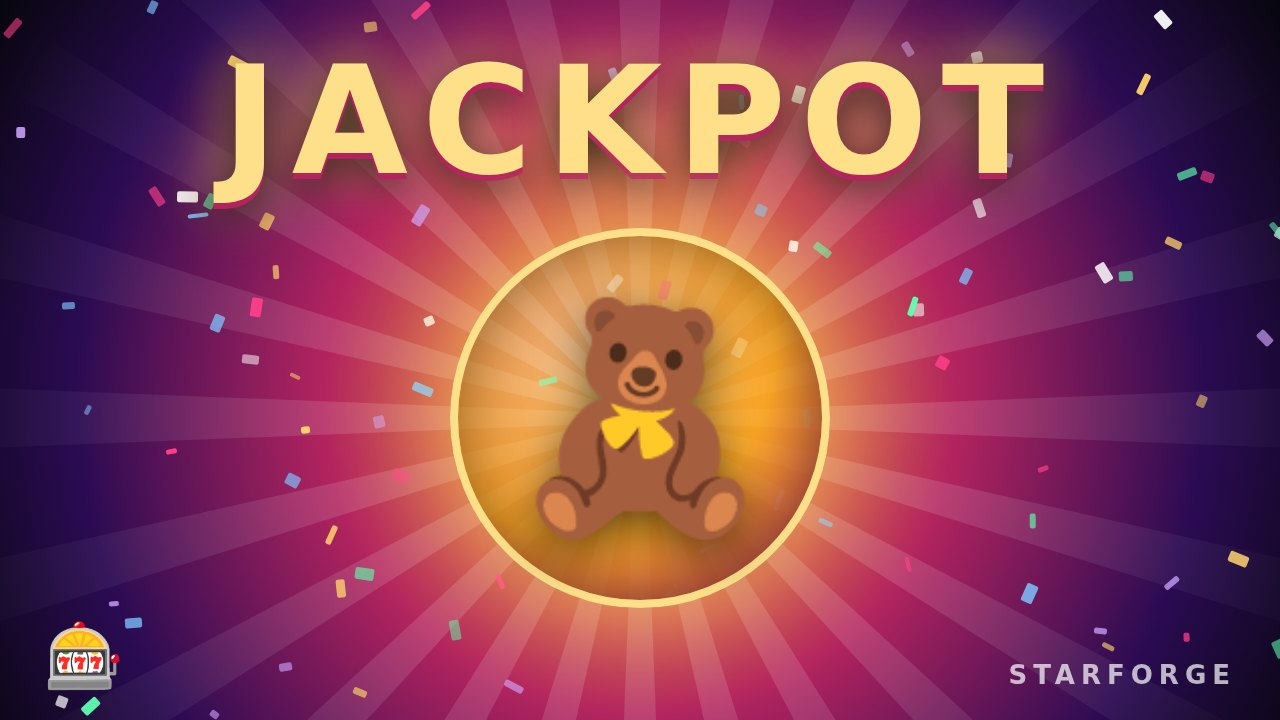
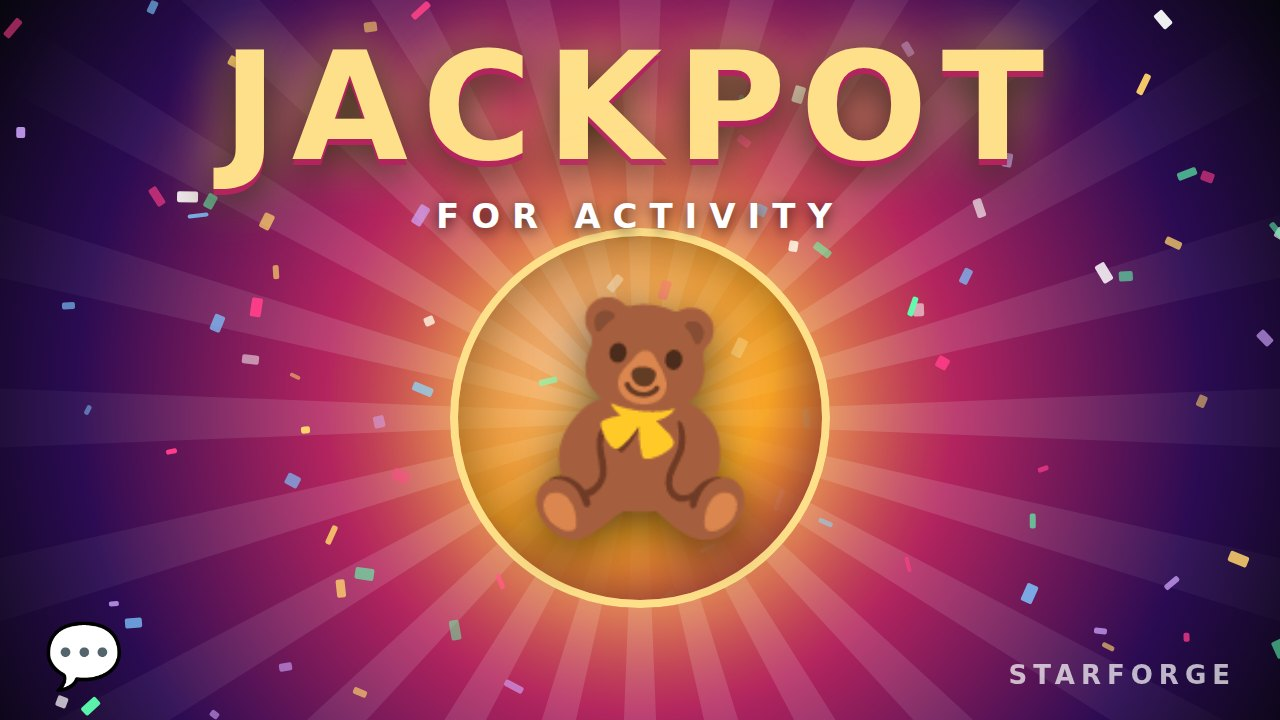
Jackpot is an admin reward for chat activity, not a game
- No slot dice or 'try your luck' button: the chat first sees
  '👀 The admin is looking through the chat…', then a JACKPOT FOR ACTIVITY
  card saying the admin noticed this person's activity, pinned with a
  notification; the teaser is removed afterwards.
- The card ends with how to earn the next one (chat, help newcomers) and
  an 'open the bot' button so newcomers can receive prizes.
- Gift caption and the winner's DM speak about activity, not luck.

Claude-Session: https://claude.ai/code/session_01BTXemNnmoYXsJt3GJZukzD

diff --git a/src/chat/chat.js b/src/chat/chat.js
@@ -463,36 +463,38 @@ function createChat(bot, opts) {
     ], pct >= 100 ? 'Майже відчинено… слідкуй за чатом 👀' : 'Відкриється першим для найактивніших гравців чату');
   }
 
-  // ═══════════════════════ 🎰 ДЖЕКПОТ ВІД АДМІНА ═══════════════════════
-  // Адмін у приваті вставляє посилання на повідомлення — бот відповідає на
-  // нього в чаті «ДЖЕКПОТ!», ставить 🎉 і закликає всіх спілкуватись.
+  // ═══════════════════════ 👑 ДЖЕКПОТ ЗА АКТИВНІСТЬ ═══════════════════════
+  // Не гра й не випадковість: адмін сам обирає, кого нагородити за активність
+  // у чаті, — вставляє в приваті посилання на повідомлення людини, і бот
+  // оголошує це в чаті у відповідь на те повідомлення.
   // opts.kind — bear | gift | stars | tickets | xp (картинка jp-<kind>.jpg);
   // opts.auto — подарунок бот уже надіслав сам (Мішка/Подарунок через sendGift).
-  // Щоб усі помітили: спершу 🎰 «барабан» у відповідь переможцю, потім яскрава
-  // картка JACKPOT, закріплення зі сповіщенням і реакції на повідомленні.
+  // Щоб усі помітили: спершу «👀 адмін помітив…», потім яскрава картка,
+  // закріплення зі сповіщенням і реакція на повідомленні переможця.
   const jpUnpin = new Map();
   async function jackpot(msgId, winner, prizeLabel, opts) {
     if (!chatId) return false;
     const o = opts || {};
     const reply = { reply_to_message_id: msgId, allow_sending_without_reply: true };
-    try {
-      await bot.telegram.sendDice(chatId, { emoji: '🎰', ...reply });
-      await new Promise(r => setTimeout(r, o.noDrumroll ? 0 : 2600));
-    } catch (e) { /* без барабана — не страшно */ }
+    let teaser = null;
+    if (!o.noTeaser) {
+      teaser = await send(E('eye', '👀') + ' <b>Адмін переглядає чат…</b> Хтось тут дуже активний ' + E('almost', '🔥'), reply);
+      await new Promise(r => setTimeout(r, 2200));
+    }
     const gift = o.kind === 'bear' || o.kind === 'gift';
-    const caption = card('crown', 'ДЖЕКПОТ! 🎰', [
-      E('crown', '👑') + ' <b>' + winner.name + '</b> зірвав джекпот — <b>' + prizeLabel + '</b>!',
+    const caption = card('crown', 'ДЖЕКПОТ ЗА АКТИВНІСТЬ', [
+      E('crown', '👑') + ' <b>' + winner.name + '</b>, адмін помітив твою активність у чаті — тримай <b>' + prizeLabel + '</b>!',
       o.auto && gift
-        ? E('lightning', '⚡') + ' <b>Бот уже видав приз сам — без черги й очікування!</b>\n' + E('giftBox', '🎁') + ' Подарунок уже в профілі переможця → «Подарунки»'
-        : E('check', '✅') + ' <b>Приз уже зараховано</b> — забирай у боті',
+        ? E('lightning', '⚡') + ' <b>Бот уже видав подарунок сам — без черги!</b>\n' + E('giftBox', '🎁') + ' Він уже в профілі переможця → «Подарунки»'
+        : E('check', '✅') + ' <b>Приз уже зараховано</b> — він у боті',
       '',
-      E('almost', '🔥') + ' <b>Хочеш так само? Будь активним у чаті!</b>',
-      'Бот стежить за активністю й роздає джекпоти найактивнішим — наступним можеш бути ти ' + E('eye', '👀'),
-    ]);
-    const link = botLink('games');
-    const tryBtn = { text: '🎰 СПРОБУВАТИ УДАЧУ', url: link, style: 'danger' };
-    if (EM.lightning && EM.lightning.id) tryBtn.icon_custom_emoji_id = EM.lightning.id;
-    const kb = link ? { reply_markup: { inline_keyboard: [[tryBtn]] } } : {};
+      E('almost', '🔥') + ' <b>Хочеш так само? Будь живим у чаті!</b>',
+      'Спілкуйся, допомагай новеньким, піднімай настрій — адмін сам обирає, кому дати наступний джекпот ' + E('eye', '👀'),
+    ], 'Щоб отримувати призи, запусти бота');
+    const link = botLink();
+    const botBtn = { text: '🤖 ВІДКРИТИ БОТА', url: link, style: 'primary' };
+    if (EM.rocket && EM.rocket.id) botBtn.icon_custom_emoji_id = EM.rocket.id;
+    const kb = link ? { reply_markup: { inline_keyboard: [[botBtn]] } } : {};
     let m = null;
     const fs = require('fs'), path = require('path');
     const kindFile = path.join(__dirname, '..', '..', 'web', 'img', 'jackpot', 'jp-' + (o.kind || 'stars') + '.jpg');
@@ -511,6 +513,7 @@ function createChat(bot, opts) {
       m = await send(caption, { ...reply, ...kb });
     }
     react(msgId, '🎉');
+    if (teaser && teaser.message_id && m) bot.telegram.deleteMessage(chatId, teaser.message_id).catch(() => {});
     // Закріпити зі сповіщенням — бачать усі; через 3 год прибираємо.
     if (m && m.message_id && !o.noPin) {
       bot.telegram.pinChatMessage(chatId, m.message_id, { disable_notification: false }).then(() => {

diff --git a/src/bot/admin/community.js b/src/bot/admin/community.js
@@ -22,7 +22,7 @@ const { withEmoji } = require('../../emoji');
 const pendingBroadcast = new Map();   // адмін -> { from, id, at }
 const jpPending = new Map();          // msgId -> uid, коли автора вказано вручну
 const jpDone = new Set();             // msgId, за які приз уже видано (подвійне натискання — не вдруге)
-const JP_GIFT_TEXT = '🎰 ДЖЕКПОТ у чаті StarForge! Будь активним — і вигравай ще 🔥';
+const JP_GIFT_TEXT = '👑 Джекпот за активність у чаті StarForge! Дякуємо, що ти з нами 🔥';
 
 const JP_PRIZES = {
   bear: { label: '🧸 Мішку', kind: 'tier', id: 'bear' },
@@ -241,7 +241,7 @@ function register(bot, hooks) {
     if (users.isAdmin(who.uid)) return ctx.reply('Це твоє повідомлення 🙂');
     const inBot = !!(users.get(who.uid) || {}).lang;
     jpDone.delete(msgId);
-    return ctx.reply(`🎰 Джекпот для ${who.plain}` + (inBot ? '' : '\n⚠ Ця людина ще не запускала бота — приз чекатиме її') +
+    return ctx.reply(`👑 Джекпот за активність для ${who.plain}` + (inBot ? '' : '\n⚠ Ця людина ще не запускала бота — приз чекатиме її') +
       '\n\nЯкий приз?\n🧸 Мішку (15⭐) і 🎁 Подарунок (25⭐) бот надішле <b>одразу сам</b> — справжнім подарунком Telegram з балансу зірок бота.', { parse_mode: 'HTML', ...ui.kb([
       [ui.cb('🧸 Мішка — одразу', `jp_${msgId}_bear`, 'danger'), ui.cb('🎁 Подарунок — одразу', `jp_${msgId}_gift`, 'danger')],
       [ui.cb('20 🎫', `jp_${msgId}_t20`, 'primary'), ui.cb('5 ⭐', `jp_${msgId}_s5`, 'primary')],
@@ -286,10 +286,10 @@ function register(bot, hooks) {
     await ctx.editMessageText(`⏳ Джекпот ${name}: ${prize.label} — оголошую в чаті…`).catch(() => {});
     const kind = prize.kind === 'tier' ? prize.id : prize.kind;
     const ok = chat() ? await chat().jackpot(msgId, { name }, prize.label, { kind, auto }) : false;
-    notify.dm(uid, withEmoji(`{:crown} <b>ДЖЕКПОТ!</b>\n━━━━━━━━━━━━━━\nТи зірвав джекпот у чаті — <b>${prize.label}</b>!\n\n` +
+    notify.dm(uid, withEmoji(`{:crown} <b>ДЖЕКПОТ ЗА АКТИВНІСТЬ!</b>\n━━━━━━━━━━━━━━\nАдмін помітив твою активність у чаті й обрав саме тебе — <b>${prize.label}</b>!\n\n` +
       (auto ? '{:lightning} <b>Бот уже надіслав подарунок</b> — глянь у свій профіль Telegram → «Подарунки» {:giftBox}'
         : prize.kind === 'tier' ? '{:pendingIcon} Заявку створено — видамо найближчим часом.' : '{:check} Уже зараховано на баланс.') +
-      '\n\n{:almost} Спілкуйся далі — бот стежить за найактивнішими!'));
+      '\n\n{:almost} Дякуємо, що ти з нами — спілкуйся далі!'));
     jpPending.delete(msgId);
     await ctx.editMessageText(`✅ Джекпот ${name}: ${prize.label} (${note})` + (ok ? '\nОголошено в чаті 🎉' : '\n⚠ У чат написати не вдалось — /chat_status')).catch(() => {});
   });

diff --git a/scripts/render-level-images.js b/scripts/render-level-images.js
@@ -3,7 +3,7 @@
 //   lvl-1.jpg … lvl-15.jpg — картка рівня (іконка, шкала, нагорода, привілеї)
 //   ladder.jpg             — усі 15 рівнів однією драбиною
 //   xp.jpg                 — за що дають XP
-// і web/img/jackpot/jp-<приз>.jpg — картинка «JACKPOT» для чату (мішка, подарунок, зірки, білети, XP).
+// і web/img/jackpot/jp-<приз>.jpg — «JACKPOT FOR ACTIVITY» для чату (мішка, подарунок, зірки, білети, XP).
 // Картинки без слів конкретною мовою (цифри й емодзі) — підходять для uk/en/ru.
 // Нагороди й привілеї беруться з src/economy.js: змінив їх — перезапусти:
 //   node scripts/render-level-images.js
@@ -161,7 +161,7 @@ function jackpotHtml(kind) {
     .ray { position: absolute; left: -40px; top: -900px; width: 80px; height: 900px; transform-origin: 40px 900px;
       background: linear-gradient(to top, #ffffff38, transparent 80%); clip-path: polygon(45% 100%, 55% 100%, 100% 0, 0 0); }
     .cf { position: absolute; border-radius: 2px; }
-    h1 { position: absolute; top: 34px; left: 0; right: 0; text-align: center; font-size: 150px; font-weight: 900; letter-spacing: 14px;
+    h1 { position: absolute; top: 20px; left: 0; right: 0; text-align: center; font-size: 150px; font-weight: 900; letter-spacing: 14px;
       color: #ffe08a; text-shadow: 0 6px 0 #b3245f, 0 12px 40px #000c, 0 0 60px #ffd36b; }
     .ring { position: absolute; left: 50%; top: 58%; width: 380px; height: 380px; margin: -190px 0 0 -190px; border-radius: 50%;
       background: radial-gradient(circle at 35% 30%, #ffffff55, #ffb020cc 55%, #b3245f); border: 8px solid #ffe08a;
@@ -169,11 +169,13 @@ function jackpotHtml(kind) {
     .ring .emo { font-size: 220px; line-height: 1; filter: drop-shadow(0 14px 24px #0009); }
     .brand { position: absolute; right: 44px; bottom: 30px; font-size: 26px; font-weight: 800; letter-spacing: 6px; opacity: .7; }
     .slot { position: absolute; left: 44px; bottom: 26px; font-size: 64px; }
+    .sub { position: absolute; top: 196px; left: 0; right: 0; text-align: center; font-size: 34px; font-weight: 900; letter-spacing: 12px; color: #fff; text-shadow: 0 3px 14px #000b; }
   </style></head><body>
     <div class="rays">${rays}</div>${conf}
     <h1>JACKPOT</h1>
     <div class="ring"><span class="emo">${e}</span></div>
-    <div class="slot emo">🎰</div>
+    <div class="slot emo">💬</div>
+    <div class="sub">FOR ACTIVITY</div>
     <div class="brand">STARFORGE</div>
   </body></html>`;
 }

diff --git a/test/server.test.js b/test/server.test.js
@@ -464,7 +464,7 @@ test('автовивід: адмін відкриває, гравець пише
   assert.ok(tg.calls.slice(n0).some(c => c.method === 'sendMessage' && String(c.payload.chat_id) === ADMIN && /уже отримав/.test(c.payload.text || '')), 'адміну сказано, що вже отримав');
 });
 
-test('джекпот: Мішка видається одразу (sendGift) рівно раз, у чаті барабан, фото й закріплення', async () => {
+test('джекпот за активність: адмін обирає, Мішка видається одразу (sendGift) рівно раз, у чаті — фото й закріплення', async () => {
   const n0 = tg.calls.length;
   adminCmd('/jackpot https://t.me/starforge_chat/555 @user960');
   const waitFor = async (pred) => { for (let i = 0; i < 40; i++) { await sleep(150); const r = pred(); if (r) return r; } return null; };
@@ -477,7 +477,8 @@ test('джекпот: Мішка видається одразу (sendGift) рі
   assert.strictEqual(gift.payload.user_id, 960);
   assert.ok(await waitFor(() => tg.calls.slice(n0).some(c => c.method === 'pinChatMessage')), 'джекпот закріплено');
   assert.strictEqual(tg.calls.slice(n0).filter(c => c.method === 'sendGift').length, 1, 'подвійне натискання — одна Мішка');
-  assert.ok(tg.calls.slice(n0).some(c => c.method === 'sendDice' && String(c.payload.chat_id) === '-1001' && c.payload.emoji === '🎰'), 'барабан 🎰 у чаті');
+  assert.ok(tg.calls.slice(n0).some(c => c.method === 'sendMessage' && String(c.payload.chat_id) === '-1001' && /Адмін переглядає чат/.test(c.payload.text || '')), 'інтрига в чаті');
+  assert.ok(!tg.calls.slice(n0).some(c => c.method === 'sendDice'), 'це не гра — без кубика');
   assert.ok(tg.calls.slice(n0).some(c => c.method === 'sendPhoto'), 'картка JACKPOT');
   await sleep(500);
   const app = readDb().applications.find(a => a.uid === '960' && a.source === 'chat_jackpot');

diff --git a/README.md b/README.md
@@ -132,8 +132,9 @@ npm start
 `[Кнопка](https://…)` у кінці стають кнопками), чат (`/chat_status`,
 `/chat_drop`, `/chat_boxes`, `/chat_contest 21:30 3`) і джекпот (просто надішли боту посилання на повідомлення
 з чату). У джекпоті 🧸 Мішку й 🎁 Подарунок бот надсилає переможцю одразу — справжнім подарунком
-Telegram (15⭐ і 25⭐ з балансу зірок бота); у чаті — 🎰 «барабан», картка JACKPOT (`web/img/jackpot`),
-закріплення зі сповіщенням на 3 години й кнопка «Спробувати удачу». Не вийшло надіслати — створюється заявка.
+Telegram (15⭐ і 25⭐ з балансу зірок бота). Це нагорода за активність, яку адмін дає сам, а не гра:
+у чаті — «👀 Адмін переглядає чат…», картка JACKPOT FOR ACTIVITY (`web/img/jackpot`), закріплення
+зі сповіщенням на 3 години й кнопка «Відкрити бота». Не вийшло надіслати — створюється заявка.
 
 ### Автовивід для обраних (одноразова Мішка)
 
